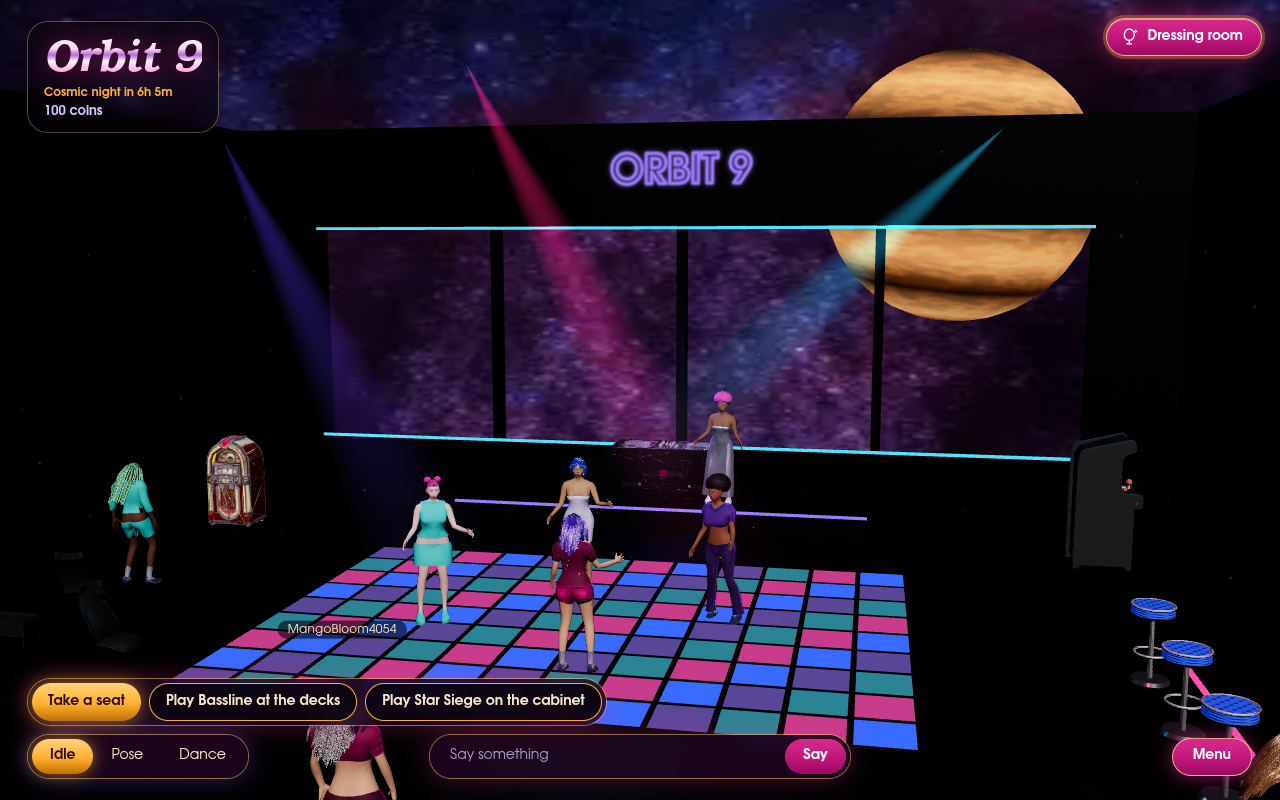
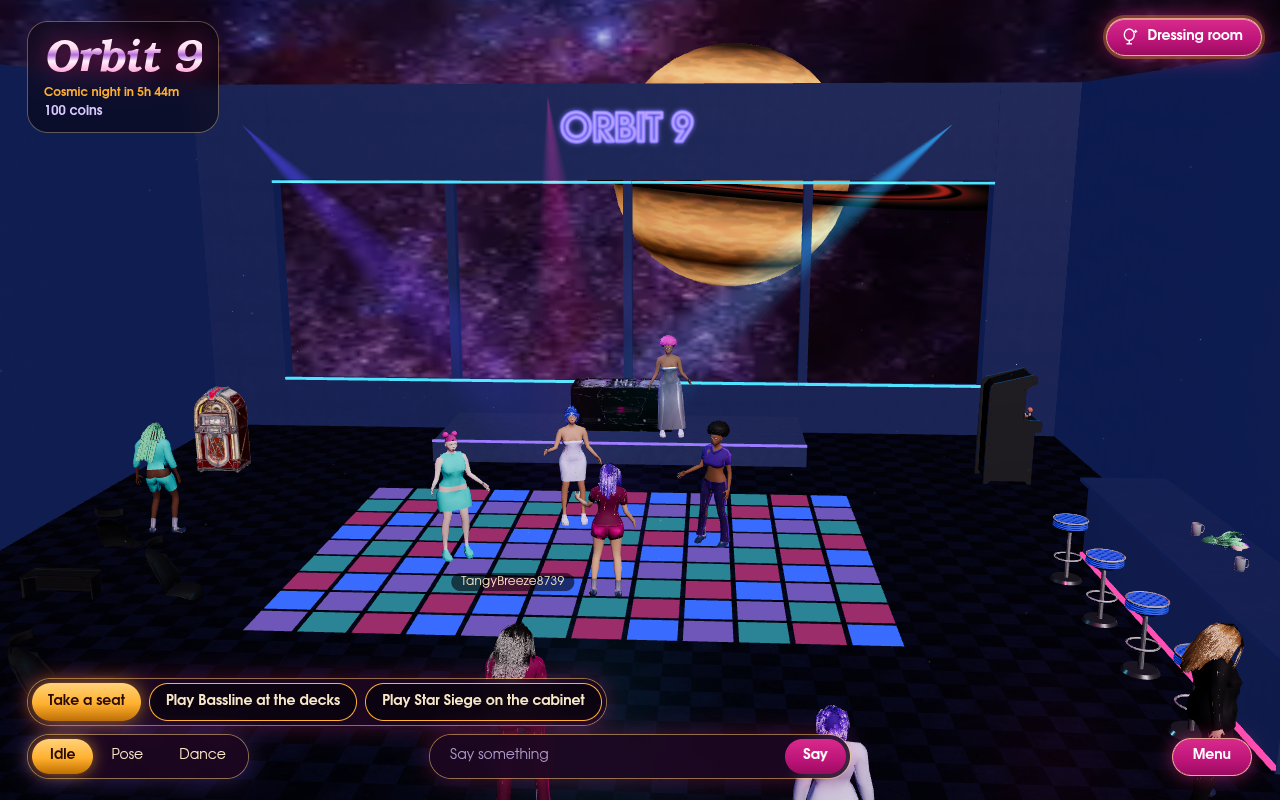
feat(orbit): screenshot and a planet that sits in the window

diff --git a/src/client/rooms/Orbit.tsx b/src/client/rooms/Orbit.tsx
@@ -250,7 +250,7 @@ function Outside() {
       <group position={[0, 0, -20]} scale={90}>
         <primitive object={sphere} />
       </group>
-      <group position={[2.5, 4.2, -42]} scale={1.5} rotation={[0.4, 0, -0.35]}>
+      <group position={[3.5, -4.2, -42]} scale={1} rotation={[0.4, 0, -0.35]}>
         <group ref={turn}>
           <primitive object={world} />
         </group>
